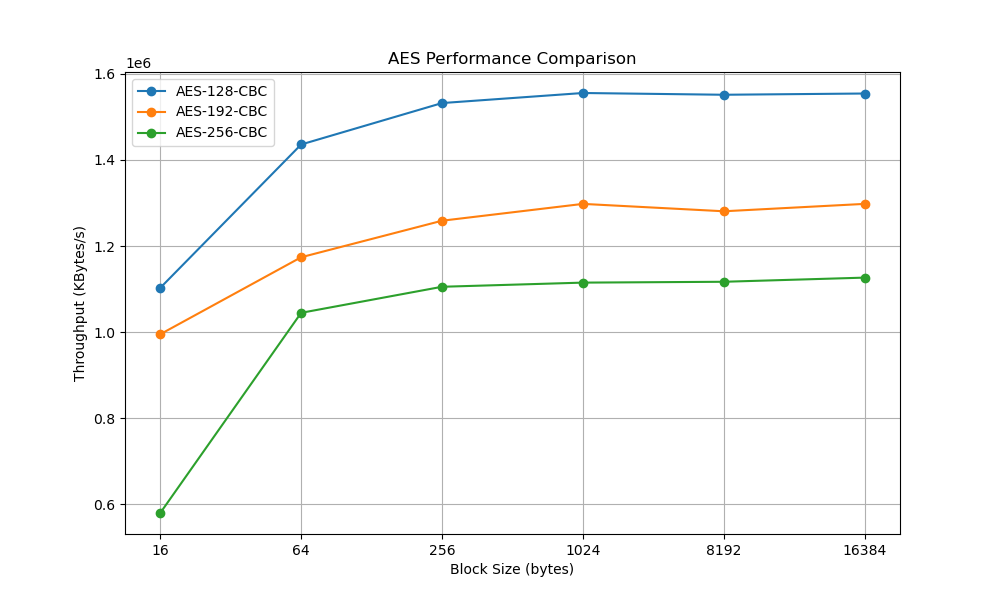
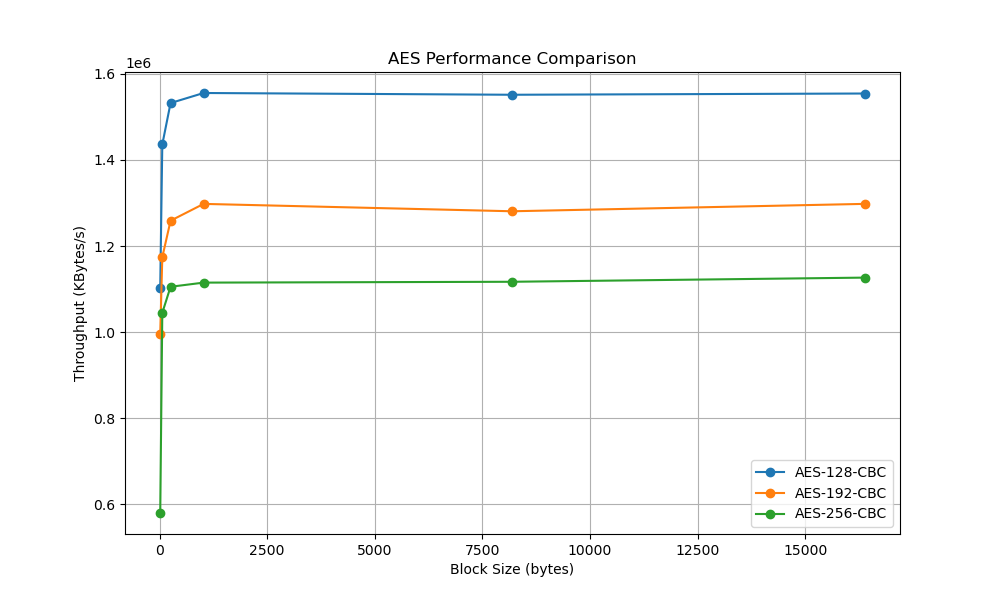
better graph

diff --git a/task3.py b/task3.py
@@ -10,12 +10,9 @@ aes_256_throughput = [579671.44, 1044819.73, 1105381.46, 1115033.26, 1116990.20,
 # Plotting the graph
 plt.figure(figsize=(10, 6))
 
-plt.plot(range(len(block_sizes)), aes_128_throughput, label='AES-128-CBC', marker='o')
-plt.plot(range(len(block_sizes)), aes_192_throughput, label='AES-192-CBC', marker='o')
-plt.plot(range(len(block_sizes)), aes_256_throughput, label='AES-256-CBC', marker='o')
-
-# Set x-axis ticks at equal intervals
-plt.xticks(range(len(block_sizes)), block_sizes)
+plt.plot(block_sizes, aes_128_throughput, label='AES-128-CBC', marker='o')
+plt.plot(block_sizes, aes_192_throughput, label='AES-192-CBC', marker='o')
+plt.plot(block_sizes, aes_256_throughput, label='AES-256-CBC', marker='o')
 
 plt.xlabel('Block Size (bytes)')
 plt.ylabel('Throughput (KBytes/s)')
